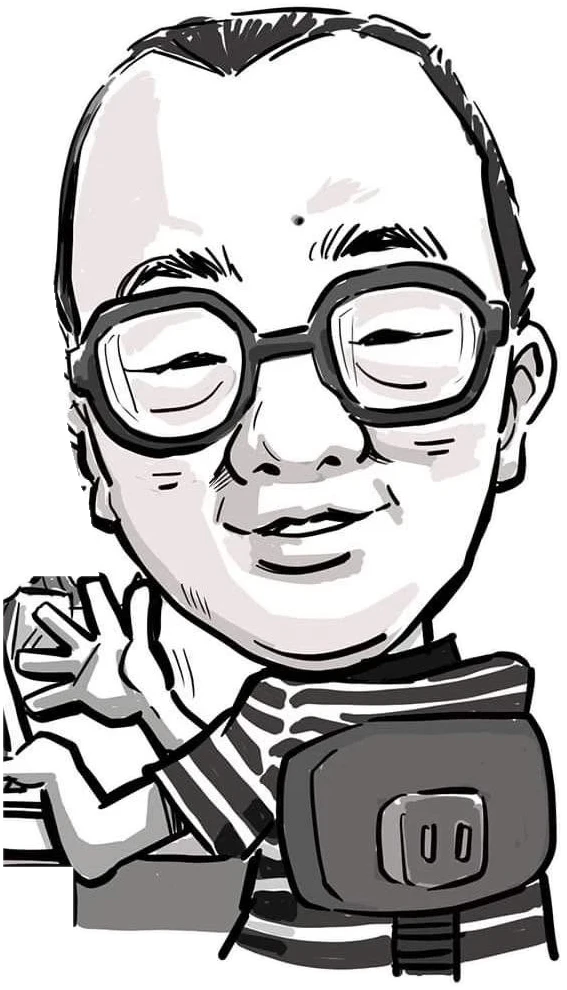
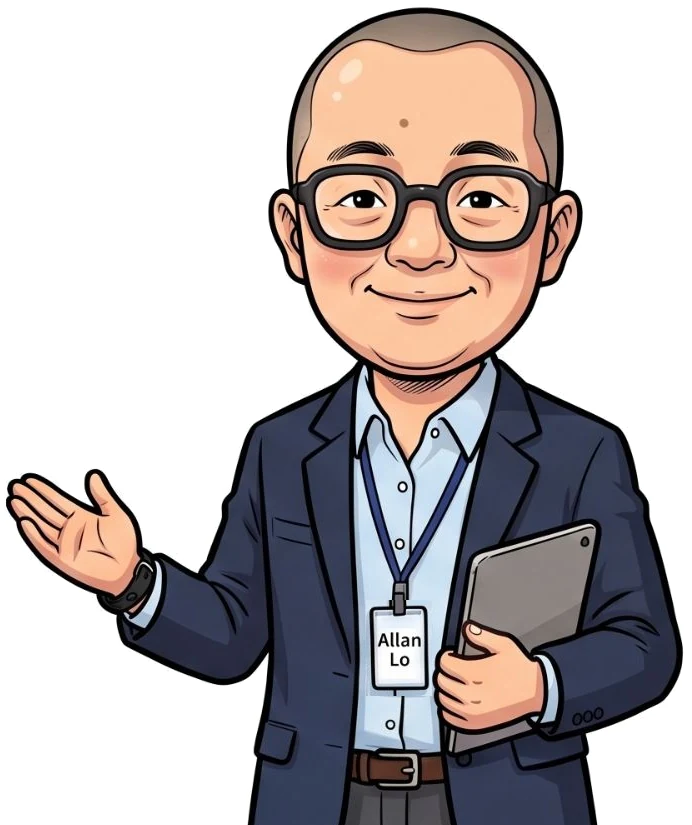
角色改用新版人物設定圖，並加入表情泡泡
- 講師 Allan：正面半身圖（翻轉讓手勢指向白板，識別證維持正向）
- 助教阿拉蕾：揮手半身圖
- 依台詞情境跳出表情包頭像（大笑、思考、驚訝、抓頭、比一提醒等），字幕加上說話者頭像
- 裁切工具改讀 source/allan-sheet.jpg、arale-sheet.jpg

Claude-Session: https://claude.ai/code/session_01RwBMUAa56628VHRUs66k4L

diff --git a/course/js/course-data.js b/course/js/course-data.js
@@ -5,7 +5,7 @@
  * t : 字幕文字（畫面顯示）
  * say : （選填）給 TTS 念的文字，用來修正英文縮寫、符號的念法
  * st : （選填）切換畫面上的「揭示步驟」，讓重點跟著講解逐一出現
- * e : （選填）角色表情動作  jump / shake / think / wow / ok
+ * e : （選填）角色表情  jump / shake / think / wow / ok（講師另有 tip / shock；助教另有 laugh / confused / talk）
  *
  * 修改台詞後請執行： python3 tools/build_audio.py  重新產生語音
  */
@@ -38,7 +38,7 @@
               L('大家好，我是 Allan 老師。我平常在幫企業導入資安和個資管理制度，也到各家公司做稽核。'),
               L('說白一點，就是專門去各家公司「抓漏」的人。今天把我看過的真實狀況，改編成案例跟大家分享。'),
               A('老師老師，資安不是 IT 部門的事嗎？我只是來吃便當的耶～', { say: '老師老師，資安不是IT部門的事嗎？我只是來吃便當的耶～', e: 'think' }),
-              L('哈哈，這是最常聽到的誤會。駭客最愛攻擊的，往往不是防火牆，而是「人」。'),
+              L('哈哈，這是最常聽到的誤會。駭客最愛攻擊的，往往不是防火牆，而是「人」。', { e: 'jump' }),
               L('一封信、一通電話、一張便利貼，就可能讓整間公司停擺。所以資安，真的是每個人的事。'),
               A('好吧……那我把便當先收起來。', { e: 'ok' })
             ]
@@ -102,7 +102,7 @@
               L('第二招：製造急迫。「下班前一定要處理」，讓你沒時間想。', { st: 2 }),
               L('第三招：引發恐懼。「你的帳號即將停用」，讓你緊張到亂點。', { st: 3 }),
               L('第四招：利誘好奇。「年終獎金名單外流」，這種附件，誰忍得住不打開？', { st: 4 }),
-              A('嗚哇……年終獎金名單，我一定會點……', { e: 'shake' }),
+              A('嗚哇……年終獎金名單，我一定會點……', { e: 'confused' }),
               L('所以記住：越是讓你「心跳加速」的訊息，越要停下來想一想。')
             ]
           },
@@ -124,7 +124,7 @@
             lines: [
               L('來，我們玩個大家來找碴。這封信自稱是公司 IT 部門寄的，要你重新設定密碼。'),
               A('看起來好正式喔，還有「緊急」兩個字，我要趕快點！', { e: 'jump' }),
-              L('等一下！先看寄件者網域：c0mpany 的「o」其實是數字 0，這是常見的假冒網域手法。', { st: 1, say: '等一下！先看寄件者。這裡的O，其實是數字零，這是常見的假冒網域手法。' }),
+              L('等一下！先看寄件者網域：c0mpany 的「o」其實是數字 0，這是常見的假冒網域手法。', { st: 1, say: '等一下！先看寄件者。這裡的O，其實是數字零，這是常見的假冒網域手法。', e: 'shock' }),
               L('再看主旨：「緊急」、「今日到期」，典型的製造急迫感。', { st: 2 }),
               L('內文還要你輸入「目前的密碼」。正派的 IT 人員，不會用信件跟你要密碼。', { st: 3, say: '內文還要你輸入「目前的密碼」。正派的IT人員，不會用信件跟你要密碼。' }),
               L('最後，滑鼠移到連結上先不要點，看一下實際網址，根本不是公司的網域。', { st: 4 }),
@@ -254,7 +254,7 @@
             ],
             lines: [
               A('老師，我的密碼超安全的，是 arale123！', { say: '老師，我的密碼超安全的，是 arale 一二三！', e: 'jump' }),
-              L('阿拉蕾，你剛剛在全公司面前把密碼講出來了……而且這種密碼，駭客的字典檔裡一定有。', { e: 'shake' }),
+              L('阿拉蕾，你剛剛在全公司面前把密碼講出來了……而且這種密碼，駭客的字典檔裡一定有。', { e: 'shock' }),
               L('來看看駭客最愛的密碼排行榜。冠軍是一二三四五六，連續數字，一秒就破解。', { st: 1 }),
               L('再來是 password、qwerty 這類常見單字和鍵盤排列。', { st: 2, say: '再來是 password、Q W E R T Y 這類常見單字和鍵盤排列。' }),
               L('第三名很有台灣特色：公司名稱加年份，再加個驚嘆號。看起來符合複雜度，其實超好猜。', { st: 3 }),
@@ -308,7 +308,7 @@
               L('Mac 是 Control 加 Command 加 Q。', { st: 2 }),
               L('同時做到桌面淨空：機密文件收進上鎖的抽屜。這在 ISO 27001 裡叫「桌面淨空與螢幕淨空」。', { st: 3, say: '同時做到桌面淨空：機密文件收進上鎖的抽屜。這在ISO 二七零零一裡，叫做桌面淨空與螢幕淨空。' }),
               A('不然同事會用我的信箱發信說：「今天下午茶我請客」！', { e: 'wow' }),
-              L('哈哈，這還算好的。如果是用你的帳號去核准一筆採購，那就笑不出來了。')
+              L('哈哈，這還算好的。如果是用你的帳號去核准一筆採購，那就笑不出來了。', { e: 'jump' })
             ]
           },
           {
@@ -417,7 +417,7 @@
             lines: [
               L('最後補充兩個常被忽略的地方。第一個是生成式 AI。', { say: '最後補充兩個常被忽略的地方。第一個是生成式A I。' }),
               A('我超愛用 AI 幫我寫報告！把整份合約貼上去，它就幫我整理好了！', { say: '我超愛用A I 幫我寫報告！把整份合約貼上去，它就幫我整理好了！', e: 'jump' }),
-              L('停！把客戶資料、合約或原始碼，貼到未經公司核可的 AI 工具，就等於把資料交給第三方。請只使用公司核可的 AI 工具，並遵守使用規範。', { st: 1, say: '停！把客戶資料、合約或原始碼，貼到未經公司核可的A I工具，就等於把資料交給第三方。請只使用公司核可的A I工具，並遵守使用規範。' }),
+              L('停！把客戶資料、合約或原始碼，貼到未經公司核可的 AI 工具，就等於把資料交給第三方。請只使用公司核可的 AI 工具，並遵守使用規範。', { st: 1, say: '停！把客戶資料、合約或原始碼，貼到未經公司核可的A I工具，就等於把資料交給第三方。請只使用公司核可的A I工具，並遵守使用規範。', e: 'shock' }),
               L('第二個是資料銷毀。機密文件要碎紙，報廢的電腦和硬碟要專業清除。我看過二手市場賣出的舊電腦，裡面還有整份客戶資料。', { st: 2 }),
               L('列印也一樣，印了就去拿，有安全列印功能就用刷卡取件。'),
               A('資料從出生到死亡，都要好好照顧！', { e: 'ok' })
@@ -628,7 +628,7 @@
               L('問題有三個：權限設錯、蒐集了不必要的資料、用了沒有評估過的工具。', { st: 2 }),
               L('對策：只蒐集需要的欄位；蒐集前先告知；分享權限設定為指定人員。管理者要建立個資檔案清冊，評估使用的工具和委外廠商。', { st: 3 }),
               L('提醒大家，違反個資法，公司除了民事賠償，每人每一事件可能要賠五百元到兩萬元，未採取適當安全措施，最高還可能被處新台幣一千五百萬元的罰鍰。'),
-              A('一千五百萬！可以買好多好多便當！', { e: 'wow' })
+              A('一千五百萬！可以買好多好多便當！', { e: 'laugh' })
             ]
           },
           {

diff --git a/course/css/style.css b/course/css/style.css
@@ -219,13 +219,13 @@ button, select, input { font-family: inherit; }
 
 /* ---------- 角色 ---------- */
 .char { position: absolute; z-index: 6; transform-origin: 50% 100%; transition: filter .3s, transform .3s; }
-.char img { display: block; width: 100%; height: auto; filter: drop-shadow(4px 6px 0 rgba(31,42,68,.35)); user-select: none; -webkit-user-drag: none; }
-.char.allan { right: 0; bottom: -14px; width: 192px; }
-.char.arale { left: 6px; bottom: 8px; width: 164px; }
-.char.idle img { animation: breathe 3.6s ease-in-out infinite; }
+.char .sprite { display: block; width: 100%; height: auto; filter: drop-shadow(4px 6px 0 rgba(31,42,68,.35)); user-select: none; -webkit-user-drag: none; }
+.char.allan { right: -2px; bottom: -4px; width: 232px; z-index: 8; }
+.char.arale { left: 4px; bottom: 6px; width: 172px; z-index: 8; }
+.char.idle .sprite { animation: breathe 3.6s ease-in-out infinite; }
 .char.dim { filter: saturate(.7) brightness(.96); }
-.char.talking img { animation: talk .38s ease-in-out infinite alternate; }
-.arale.talking img { animation-duration: .28s; }
+.char.talking .sprite { animation: talk .38s ease-in-out infinite alternate; }
+.arale.talking .sprite { animation-duration: .28s; }
 @keyframes breathe { 0%,100% { transform: scale(1); } 50% { transform: scale(1.012, .992); } }
 @keyframes talk { from { transform: translateY(0) rotate(-.6deg); } to { transform: translateY(-5px) rotate(.6deg); } }
 
@@ -240,13 +240,20 @@ button, select, input { font-family: inherit; }
 @keyframes eThink { 0%,100% { transform: none; } 30%,70% { transform: rotate(-4deg); } }
 
 .emote {
-  position: absolute; z-index: 2; font-size: 46px; opacity: 0; pointer-events: none;
-  transform: scale(.3);
+  position: absolute; z-index: 2; width: 116px; height: 116px; opacity: 0; pointer-events: none;
+  border-radius: 50%; background: #fff; border: 4px solid var(--ink); overflow: visible;
+  box-shadow: 4px 5px 0 rgba(31,42,68,.35);
 }
-.arale .emote { left: 112px; top: -30px; font-size: 38px; }
-.allan .emote { left: 10px; top: -30px; font-size: 38px; }
-.emote.show { animation: emote 1.6s ease forwards; }
-@keyframes emote { 0% { opacity: 0; transform: scale(.3) translateY(10px); } 15% { opacity: 1; transform: scale(1.2); } 25% { transform: scale(1); } 80% { opacity: 1; } 100% { opacity: 0; transform: translateY(-16px); } }
+.emote img { width: 100%; height: 100%; border-radius: 50%; display: block; object-fit: cover; }
+.emote::after { /* 泡泡尾巴 */
+  content: ""; position: absolute; left: 50%; bottom: -16px; margin-left: -10px;
+  border: 10px solid transparent; border-top: 10px solid var(--ink);
+}
+.emote .badge { position: absolute; right: -10px; top: -10px; font-size: 30px; line-height: 1; }
+.arale .emote { left: 34px; top: -128px; }
+.allan .emote { left: 62px; top: -126px; }
+.emote.show { animation: emote 2.6s ease forwards; }
+@keyframes emote { 0% { opacity: 0; transform: scale(.3) translateY(30px); } 12% { opacity: 1; transform: scale(1.12); } 20% { transform: scale(1); } 85% { opacity: 1; transform: none; } 100% { opacity: 0; transform: translateY(-12px) scale(.9); } }
 
 .nametag {
   position: absolute; left: 50%; transform: translateX(-50%); bottom: 10px;
@@ -255,11 +262,11 @@ button, select, input { font-family: inherit; }
   box-shadow: 0 3px 0 rgba(0,0,0,.2);
 }
 .arale .nametag { background: var(--arale); bottom: -2px; }
-.allan .nametag { background: var(--allan); bottom: 24px; left: 58%; }
+.allan .nametag { background: var(--allan); bottom: 6px; left: 60%; }
 
 /* ---------- 字幕 ---------- */
 .subtitle {
-  position: absolute; left: 180px; width: 900px; bottom: 14px; z-index: 7;
+  position: absolute; left: 180px; width: 880px; bottom: 14px; z-index: 7;
   min-height: 106px; display: flex; flex-direction: column; justify-content: center;
   background: rgba(255,255,255,.96); border: 4px solid var(--ink); border-radius: 18px;
   padding: 10px 20px 12px; box-shadow: 6px 6px 0 rgba(31,42,68,.85);
@@ -271,7 +278,8 @@ button, select, input { font-family: inherit; }
 }
 .subtitle.A::before { left: -30px; border-right-color: var(--ink); }
 .subtitle.L::before { right: -30px; border-left-color: var(--ink); }
-.subtitle .who { font-weight: 900; font-size: 16px; margin-bottom: 2px; }
+.subtitle .who { font-weight: 900; font-size: 16px; margin-bottom: 2px; display: flex; align-items: center; gap: 6px; }
+.subtitle .who img { width: 28px; height: 28px; border-radius: 50%; border: 2px solid currentColor; object-fit: cover; background: #fff; }
 .subtitle.A .who { color: var(--arale); }
 .subtitle.L .who { color: var(--allan); }
 .subtitle .text { font-size: 24px; line-height: 1.45; font-weight: 500; }

diff --git a/course/js/player.js b/course/js/player.js
@@ -6,7 +6,16 @@
   const $ = (id) => document.getElementById(id);
   const esc = (s) => String(s).replace(/[&<>"]/g, (c) => ({ '&': '&amp;', '<': '&lt;', '>': '&gt;', '"': '&quot;' }[c]));
   const NAMES = { L: '講師 Allan', A: '助教 阿拉蕾' };
-  const EMOTES = { jump: '❗', shake: '💦', think: '❓', wow: '✨', ok: '👍' };
+  // 角色表情：台詞的 e 對應到表情頭像與小圖示
+  const FACES = {
+    L: { jump: 'laugh', shake: 'scratch', think: 'think', wow: 'wow', ok: 'wink', tip: 'point', shock: 'shock' },
+    A: { jump: 'cheer', shake: 'cry', think: 'think', wow: 'wow', ok: 'wink', laugh: 'laugh', confused: 'confused', talk: 'talk' }
+  };
+  const BADGES = { jump: '❗', shake: '💦', think: '❓', wow: '✨', ok: '👍', tip: '☝', shock: '😱', laugh: '🎵', confused: '❓', talk: '💬' };
+  const AVATAR = { L: 'assets/img/allan-smile.webp', A: 'assets/img/arale-talk.webp' };
+  const faceSrc = (s, e) => `assets/img/${s === 'L' ? 'allan' : 'arale'}-${FACES[s][e]}.webp`;
+  // 預先載入表情圖，避免第一次跳出時閃爍
+  Object.keys(FACES).forEach((s) => Object.keys(FACES[s]).forEach((e) => { new Image().src = faceSrc(s, e); }));
   const STORE = 'secAwareness.v1';
   // 錄製模式（tools/export_video.js 使用）：index.html?record=章節序號
   const REC = new URLSearchParams(location.search).get('record');
@@ -145,15 +154,17 @@
     });
   }
   function emote(s, e) {
-    if (!e) return;
+    if (!e || !FACES[s][e]) return;
     const el = chars[s];
     el.classList.remove('e-jump', 'e-shake', 'e-wow', 'e-think', 'e-ok');
     void el.offsetWidth;
-    el.classList.add('e-' + e);
+    el.classList.add('e-' + ({ tip: 'ok', shock: 'shake', laugh: 'jump', confused: 'think', talk: 'ok' }[e] || e));
     const em = $('emote' + s);
-    em.textContent = EMOTES[e] || '';
+    em.innerHTML = `<img src="${faceSrc(s, e)}" alt=""><span class="badge">${BADGES[e] || ''}</span>`;
     em.classList.remove('show'); void em.offsetWidth; em.classList.add('show');
   }
+  // 沒有指定表情時，講師講到重點自動「比一」
+  const autoEmote = (l) => l.e || (l.s === 'L' && /記住|提醒|最重要|千萬|一定要/.test(l.t) ? 'tip' : null);
 
   /* ---------- 播放 ---------- */
   let ttsUtter = null, ttsStart = 0, ttsVoice = null;
@@ -168,10 +179,10 @@
     const l = line();
     const sub = $('subtitle');
     sub.className = 'subtitle ' + l.s + (st.cc ? '' : ' off');
-    $('subWho').textContent = NAMES[l.s];
+    $('subWho').innerHTML = `<img src="${AVATAR[l.s]}" alt="">${NAMES[l.s]}`;
     $('subText').textContent = l.t;
     applyStep(stepFor(st.si, st.li));
-    if (withMotion) emote(l.s, l.e);
+    if (withMotion) emote(l.s, autoEmote(l));
     saved.pos = { ci: st.ci, si: st.si, li: st.li }; persist();
     updateTime();
   }

diff --git a/course/index.html b/course/index.html
@@ -29,12 +29,12 @@
 
       <div class="char arale" id="charA">
         <div class="emote" id="emoteA"></div>
-        <img src="assets/img/arale.webp" alt="助教阿拉蕾">
+        <img class="sprite" src="assets/img/arale.webp" alt="助教阿拉蕾">
         <div class="nametag">助教・阿拉蕾</div>
       </div>
       <div class="char allan" id="charL">
         <div class="emote" id="emoteL"></div>
-        <img src="assets/img/allan.webp" alt="講師 Allan">
+        <img class="sprite" src="assets/img/allan.webp" alt="講師 Allan">
         <div class="nametag">講師・Allan</div>
       </div>
 

diff --git a/tools/make_characters.py b/tools/make_characters.py
@@ -1,37 +1,70 @@
-"""從 source/hosts.webp 裁切出講師與助教的「貼紙風」去背圖。
+#!/usr/bin/env python3
+"""從角色設定圖裁切講師 Allan 與助教阿拉蕾的素材。
 
+輸入：source/allan-sheet.jpg、source/arale-sheet.jpg
+輸出：course/assets/img/
+  allan.webp / arale.webp        半身主圖（去背、白色貼紙描邊）
+  allan-<表情>.webp / arale-<表情>.webp   表情頭像（正方形，播放器以圓形顯示）
 用法：pip install pillow numpy && python3 tools/make_characters.py
 """
 from pathlib import Path
-from PIL import Image, ImageDraw, ImageFilter, ImageChops
+from PIL import Image, ImageDraw, ImageFilter, ImageOps
 import numpy as np
-ROOT=Path(__file__).resolve().parent.parent
-src=Image.open(ROOT/'source'/'hosts.webp').convert('RGB')
-def cut(box, keep_poly, barriers, out, border=7):
-    im=src.crop(box).copy(); W,H=im.size
-    keep=Image.new('L',(W,H),0); ImageDraw.Draw(keep).polygon(keep_poly,fill=255)
-    g=np.array(im.convert('L'))
-    ink=Image.fromarray(np.where(g<200,255,0).astype('uint8'))
-    ink=ImageChops.multiply(ink,keep)
-    d=ImageDraw.Draw(ink)
-    for seg in barriers: d.line(seg,fill=255,width=3)
-    dil=ink.filter(ImageFilter.MaxFilter(15))
-    # fill holes: flood from border on padded image
-    pad=Image.new('L',(W+2,H+2),0); pad.paste(dil,(1,1))
-    ImageDraw.floodfill(pad,(0,0),128)
-    p=np.array(pad)[1:-1,1:-1]
-    sil=Image.fromarray(np.where(p==128,0,255).astype('uint8'))
-    sil=sil.filter(ImageFilter.MinFilter(7))
-    sil=ImageChops.multiply(sil,keep).filter(ImageFilter.GaussianBlur(1))
-    white=Image.new('RGB',(W,H),(255,255,255))
-    # outside keep polygon -> white (sticker border)
-    im=Image.composite(im,white,keep)
-    im.putalpha(sil)
-    im=im.crop(im.getbbox())
-    dst=ROOT/'course'/'assets'/'img'/out.replace('.png','.webp')
-    im.save(dst,quality=90); print(dst,im.size)
-# 阿拉蕾（左）
-cut((40,280,560,960),[(0,0),(405,0),(436,45),(436,292),(392,318),(392,498),(348,503),(348,532),(402,540),(410,680),(0,680)],
-    [[(436,45),(436,292),(392,318),(392,498)]],'arale.png')
-cut((400,0,1024,1010),[(55,0),(624,0),(624,1010),(80,1010),(80,880),(10,880),(10,590)]+[(106, 590), (96, 520), (88, 500), (78, 460), (70, 410), (72, 360), (66, 340), (58, 280)]+[(55,0)],
-    [[(106, 590), (96, 520), (88, 500), (78, 460), (70, 410), (72, 360), (66, 340), (58, 280)]],'allan.png')
+
+ROOT = Path(__file__).resolve().parent.parent
+OUT = ROOT / 'course' / 'assets' / 'img'
+OUT.mkdir(parents=True, exist_ok=True)
+allan = Image.open(ROOT / 'source' / 'allan-sheet.jpg').convert('RGB')
+arale = Image.open(ROOT / 'source' / 'arale-sheet.jpg').convert('RGB')
+
+
+def cutout(im, border=5):
+    """由四周白底 flood fill 去背，並留一圈白色貼紙描邊。"""
+    W, H = im.size
+    mark = im.copy()
+    seeds = [(x, y) for x in range(0, W, 6) for y in (0, H - 1)] + [(x, y) for y in range(0, H, 6) for x in (0, W - 1)]
+    for p in seeds:
+        r, g, b = mark.getpixel(p)
+        if min(r, g, b) > 225 and (r, g, b) != (255, 0, 255):
+            ImageDraw.floodfill(mark, p, (255, 0, 255), thresh=28)
+    a = np.array(mark)
+    fg = ~((a[:, :, 0] == 255) & (a[:, :, 1] == 0) & (a[:, :, 2] == 255))
+    m = Image.fromarray((fg * 255).astype('uint8'))
+    m = m.filter(ImageFilter.MaxFilter(3)).filter(ImageFilter.MinFilter(3))   # 補小洞
+    sticker = m.filter(ImageFilter.MaxFilter(border * 2 + 1)).filter(ImageFilter.GaussianBlur(1))
+    out = Image.composite(im, Image.new('RGB', im.size, 'white'), m).convert('RGBA')
+    out.putalpha(sticker)
+    return out.crop(out.getbbox())
+
+
+def save(im, name):
+    im.save(OUT / name, quality=88, method=6)
+    print(name, im.size)
+
+
+# ---- 主圖：Allan 正面半身（左右翻轉，讓手勢指向畫面中央的白板；識別證文字再翻回來）
+body = allan.crop((70, 80, 772, 905))
+ImageDraw.Draw(body).rectangle((650, 600, body.width, body.height), fill='white')  # 去掉右側「表情包」標題字
+W = body.width
+badge_box = (270, 600, 336, 696)
+badge = body.crop(badge_box)
+body = ImageOps.mirror(body)
+body.paste(badge, (W - badge_box[2], badge_box[1]))
+save(cutout(body), 'allan.webp')
+
+# ---- 主圖：阿拉蕾揮手半身
+save(cutout(arale.crop((70, 805, 410, 1250))), 'arale.webp')
+
+# ---- 表情頭像（正方形）
+def bust(src, cx, top, size, name):
+    if name == 'allan-think.webp':
+        size = 290
+    im = src.crop((cx - size // 2, top, cx + size // 2, top + size)).resize((240, 240), Image.LANCZOS)
+    save(im, name)
+
+for cx, top, n in [(895, 795, 'smile'), (1200, 795, 'laugh'), (1500, 800, 'think'), (1805, 795, 'scratch'),
+                   (895, 1137, 'wow'), (1190, 1137, 'point'), (1510, 1137, 'wink'), (1830, 1137, 'shock')]:
+    bust(allan, cx, top, 326, f'allan-{n}.webp')
+for cx, top, n in [(616, 808, 'laugh'), (1002, 808, 'think'), (1388, 808, 'wow'), (1773, 808, 'confused'),
+                   (616, 1145, 'talk'), (1002, 1145, 'cry'), (1388, 1145, 'wink'), (1773, 1145, 'cheer')]:
+    bust(arale, cx, top, 304, f'arale-{n}.webp')

diff --git a/README.md b/README.md
@@ -16,6 +16,8 @@
 
 共 8 個「管理實務案例」，每個案例皆以 **情境 → 問題在哪裡 → 管理對策** 呈現，並標示主管應負的管理責任。每章末另有「隨堂小測驗」。
 
+角色依台詞情境會跳出表情泡泡（大笑、思考、驚訝、抓頭、比一提醒、眨眼比讚…），取自角色設定圖的表情包。
+
 課後測驗不內建於本課程，由控制列「📝 課後測驗」、章節選單與課程結尾按鈕另開新視窗連到外部測驗（預設：https://allanloplus.github.io/ISMS_QUIZ66/ ）。
 
 ## 使用方式
@@ -59,12 +61,12 @@ course/                 ← 部署這個資料夾即可
 ├─ js/audio-manifest.js 配音對照表（自動產生）
 ├─ js/player.js         播放引擎
 ├─ audio/*.mp3          配音（自動產生）
-└─ assets/img/          講師／助教去背圖
+└─ assets/img/          講師／助教半身去背圖與表情頭像
 tools/
 ├─ build_audio.py       產生配音（edge-tts：zh-TW-YunJheNeural／zh-TW-HsiaoYuNeural）
 ├─ export_video.js      輸出 MP4
-└─ make_characters.py   從 source/hosts.webp 裁切角色圖
-source/                 原始插圖與測驗題目截圖
+└─ make_characters.py   從 source/ 角色設定圖裁切半身圖與表情頭像
+source/                 角色設定圖（allan-sheet.jpg、arale-sheet.jpg）與測驗題目截圖
 ```
 
 ## 注意事項
